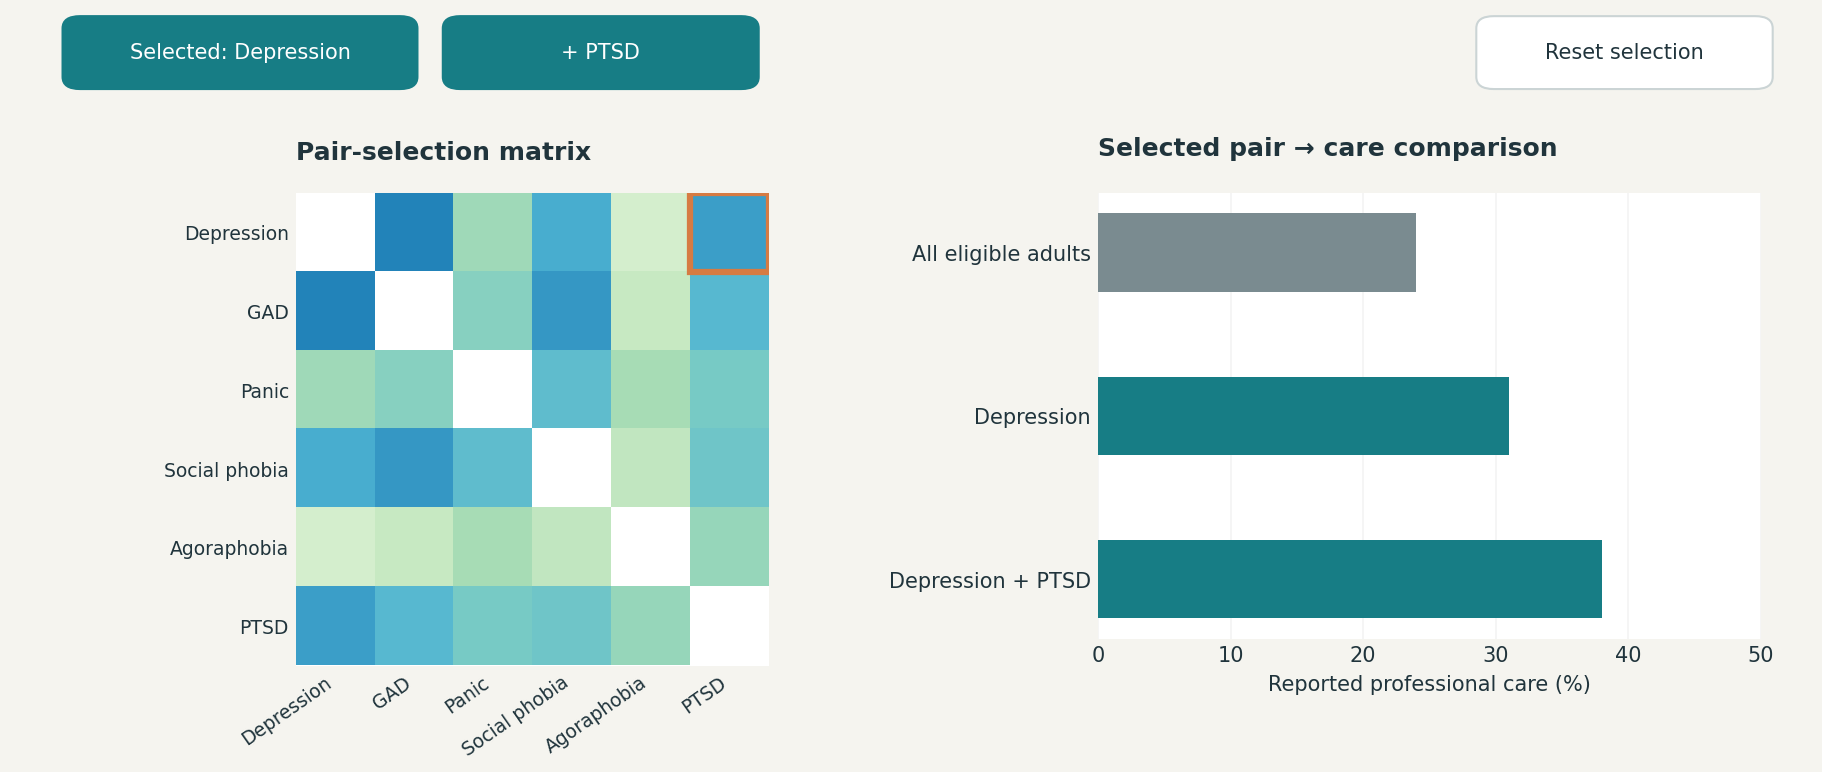
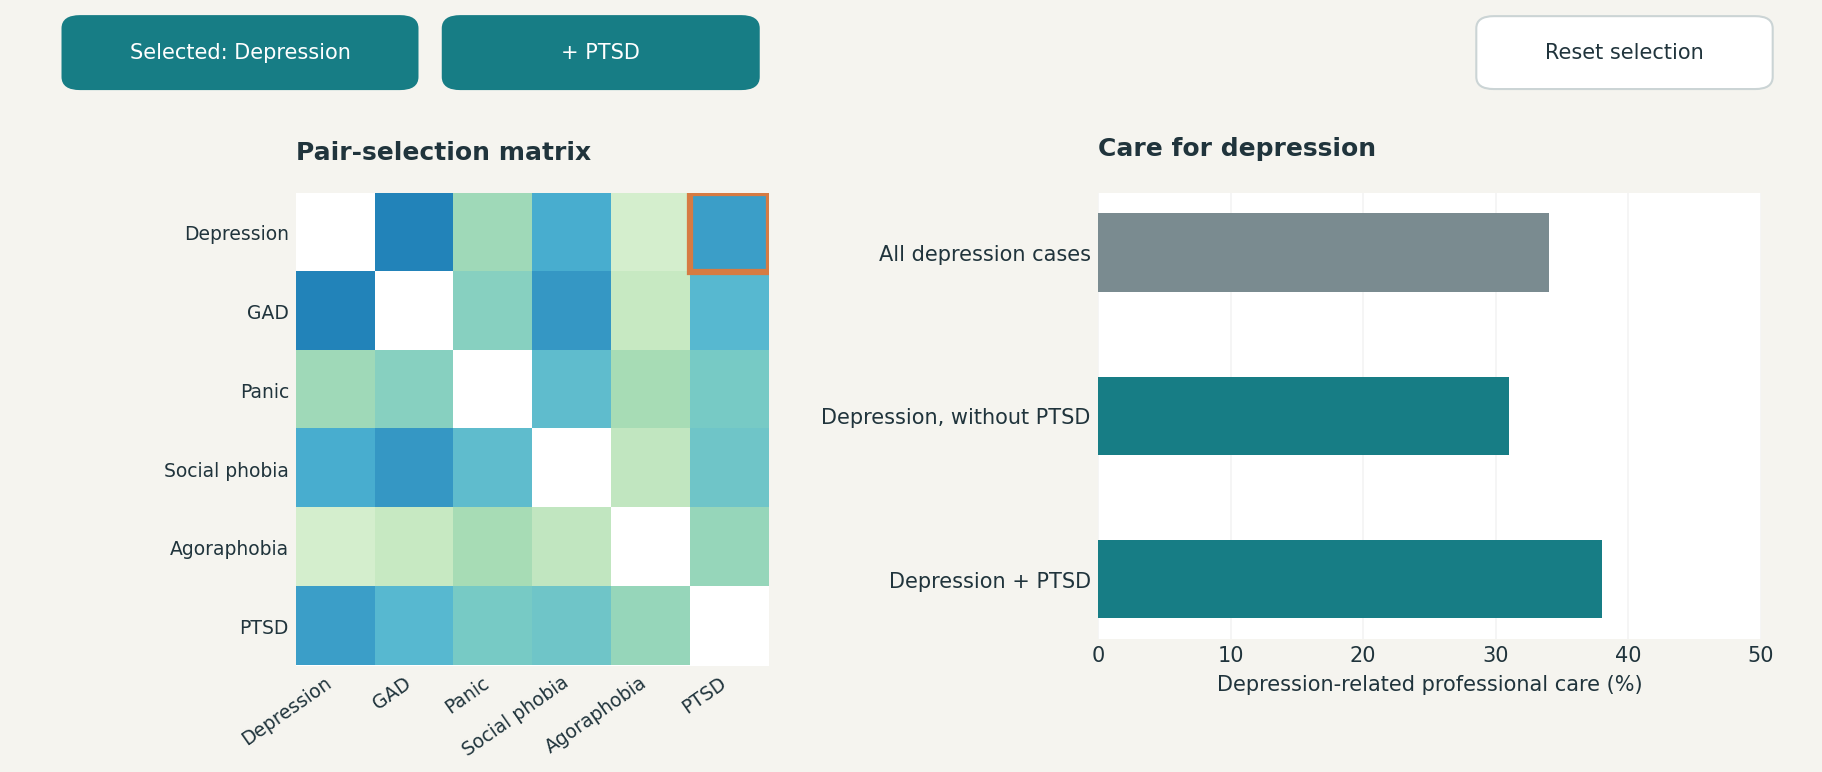
Clarify care comparison, strengthen inspiration, and link current proposal

diff --git a/interactive-viz-project/milestones/interactive-proposal.md b/interactive-viz-project/milestones/interactive-proposal.md
@@ -26,7 +26,9 @@ I am considering Altair/Vega-Lite for the charts, embedded in an HTML/CSS page, 
 
 2. **[Wordwall — Matching Pairs](https://wordwall.net/resource/81597861/match-the-words-to-their-definitions):** Readers select related pairs of terms and descriptions. This offers an alternative to dragging: click a symptom-description card, then its matching disorder.
 
-Both examples could inform a short opening activity that introduces the disorders before readers explore the survey results.
+3. **[Gapminder — Bubble Chart](https://www.gapminder.org/tools/):** Readers select countries and change the measures shown in the chart. I want to borrow that ability to choose what to compare: readers could select disorders and switch between life domains, rather than see only the comparisons I picked.
+
+The Wordwall examples inform the opening activity; Gapminder informs the main data exploration.
 
 ## Mockup
 
@@ -36,11 +38,13 @@ The three mockups below show possible layouts and interactions. Their values are
 
 ### 1. Which disorders occur together?
 
-Readers select a pair of disorders in a co-occurrence matrix. A companion chart updates to compare reported care among respondents with the selected disorders.
+Readers select a pair of disorders in a co-occurrence matrix. A companion chart compares care for one selected disorder between people with and without the second disorder. The same care question is used for both groups.
 
 ![Disorder overlap mockup](mockup-01-disorder-overlap.png)
 
-**Example:** Click the square for depression and PTSD. The bars update to compare care among respondents with both disorders, those with depression, and all eligible adults.
+**Example:** Click the square for depression and PTSD. The bars compare depression-related professional care among people with depression but without PTSD, people with both disorders, and all eligible depression cases. “Without PTSD” does not exclude other disorders.
+
+These comparisons will include only respondents eligible for the same care question with a known answer. I will check question eligibility before finalizing each comparison; missing answers will not count as no care.
 
 ### 2. Where is daily life most affected?
 

diff --git a/README.md b/README.md
@@ -2,6 +2,13 @@
 
 Judy Chen
 
+## Current submission: Interactive Visualization Proposal
+
+- **[Read the proposal and view the three mockups](interactive-viz-project/milestones/interactive-proposal.md)**
+- [Interactive project overview](interactive-viz-project/README.md)
+
+## Static Visualization Project
+
 **Static Visualization Project, final submission**
 
 - **Final article (PDF):** [static-viz-project/final/final.pdf](static-viz-project/final/final.pdf)
